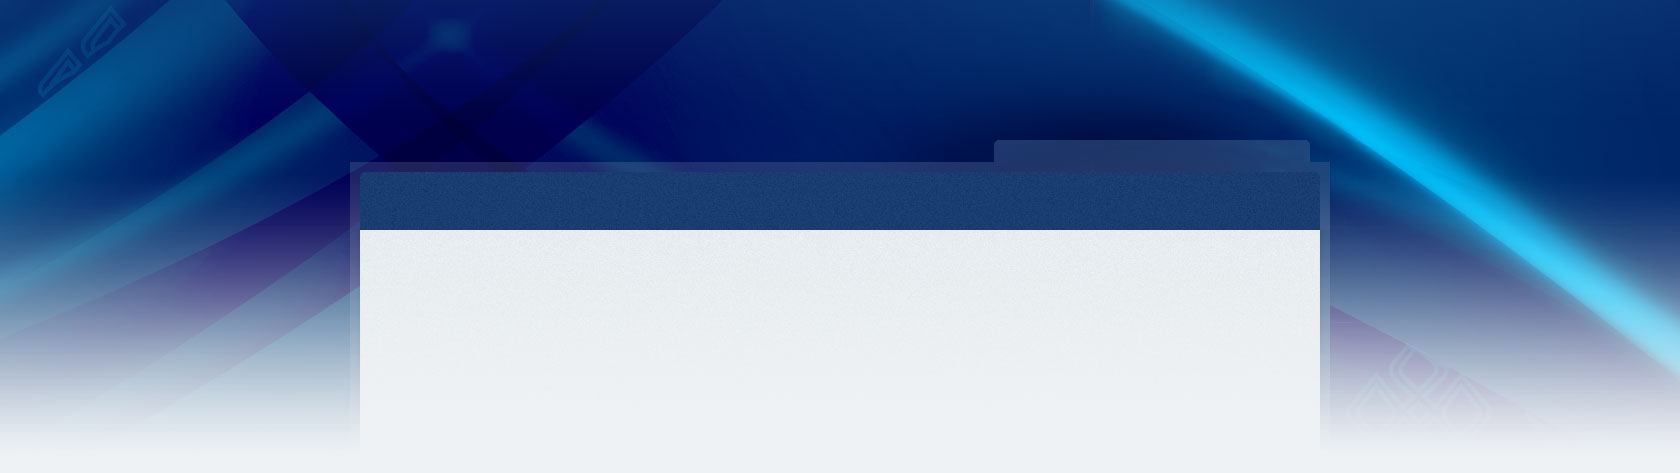
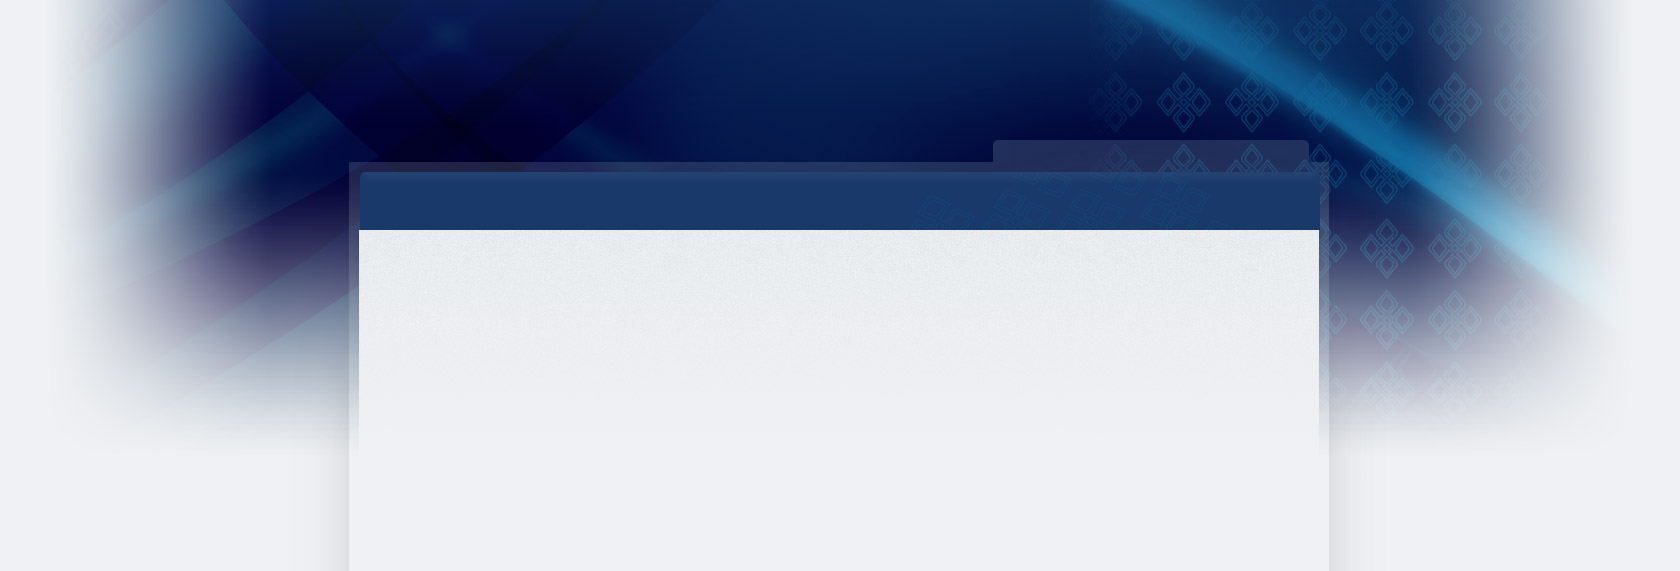
Update to new design, working commit

diff --git a/sites/all/themes/u21dk2011/styles/layout.css b/sites/all/themes/u21dk2011/styles/layout.css
@@ -1,8 +1,25 @@
 /* ----- / layouts ------ */
 
+body {
+  background: #eff1f3 url(../images/back-content.png) center top repeat-y;
+} 
+
 #wrapper {
-  background: #eff2f4 url(../images/body-back-1680.jpg) center top no-repeat;
+  background: transparent url(../images/body-back-1680.jpg) center top no-repeat;
   overflow: hidden;
+}
+
+#secondary-content {
+  background: #e9ebec url(../images/back-secondary-content.png) center top repeat-y;
+  background-image: url(../images/back-secondary-content.png), url(../images/back-secondary-content-pattern.jpg);
+  background-repeat: repeat-y, no-repeat;
+  background-position: center top;
+  overflow: hidden;
+  padding-top: 30px;
+}
+
+.clear {
+  clear: both;
 }
 
 /* ======================================== */
@@ -196,6 +213,10 @@
 
 #content {
   margin-top: 20px;
+}
+
+#main-content {
+  padding-bottom: 30px;
 }
 
 #content>.tabs {
@@ -536,6 +557,38 @@
   margin-top: 19px;
 }
 
+/* ======================================== */
+/*  NEWS LIST                               */
+/* ======================================== */
+
+#news-list .views-list>li {
+  padding: 8px 8px 8px 158px;
+}
+
+#news-list li h2,
+#news-list li h2 a {
+}
+
+#news-list .post-date {
+  margin-left: -150px;
+  float: left;
+}
+
+#news-list .region-link {
+  background: #aaa;
+  border-radius: 6px;
+  -moz-border-radius: 6px;
+  -webkit-border-radius: 6px;
+  -o-border-radius: 6px;
+  padding: 0 8px;
+  margin: 4px 0;
+  }
+
+#news-list .region-link a {
+
+}
+
+
 
 /* =============================================
 
@@ -544,30 +597,7 @@
 
 
 
-.clear {
-  clear: both;
-}
 
-
-/* ------ / News ------ */
-.post-date {
-  float: left;
-  padding-right: 3px;
-  margin-right: 3px;
-  border-right: 1px solid #ccc;
-}
-
-.region-link {
-  float: left;
-  padding: 0px 3px;
-  margin-right: 3px;
-  background: blue;
-}
-
-.region-link a:link,
-.region-link a:visited {
-    color: #fff;
-}
 
 /* ----- / Events ------ */
 .views-list .location {

diff --git a/sites/all/themes/u21dk2011/styles/typography.css b/sites/all/themes/u21dk2011/styles/typography.css
@@ -39,6 +39,7 @@ h1 {
 
 h2 {
   font-size: 18px;
+  line-height: 20px;
   margin: 1.5em 0 0.2em;
   font-weight: bold;
   color: #222;
@@ -70,8 +71,6 @@ quote {
 strong, bold {
   font-weight: bold;
 }
-
-
 
 /* ------ / Link typography ------ */
 
@@ -116,6 +115,19 @@ li a.active:hover {
 .field-content-value a[href^='http://dev.u21.etek.dk'] {
   padding-left: 0;
   background: transparent;
+}
+
+.region-link a:link,
+.region-link a:visited {
+  color: #fff;
+  border: none;
+  font-size: 11px;
+  line-height: 12px;
+}
+
+.region-link a:hover,
+.region-link a:active {
+  text-decoration: underline;
 }
 
 /* ----- / Submenu ----- */

diff --git a/sites/all/themes/u21dk2011/templates/pages/page.tpl.php b/sites/all/themes/u21dk2011/templates/pages/page.tpl.php
@@ -60,58 +60,63 @@
       </div>
     </div><!-- /content -->
 
-    <div id="secondary-content" class="container-12 clear">
-      <?php if ($region_middle): ?>
-        <div id="region-middle" class="region grid-12">
-        <?php print $region_middle; ?>
-        </div>
-      <?php endif; ?>
-      <?php if ($region_middle_left): ?>
-        <div id="region-middle-left" class="region grid-4">
-        <?php print $region_middle_left; ?>
-        </div>
-      <?php endif; ?>
-      <?php if ($region_middle_center): ?>
-        <div id="region-middle-center" class="region grid-4">
-        <?php print $region_middle_center; ?>
-        </div>
-      <?php endif; ?>
-      <?php if ($region_middle_right): ?>
-        <div id="region-middle-right" class="region grid-4">
-        <?php print $region_middle_right; ?>
-        </div>
-      <?php endif; ?>
-      <?php if ($region_bottom): ?>
-        <div id="region-bottom" class="region grid-12">
-        <?php print $region_bottom; ?>
-        </div>
-      <?php endif; ?>
-    
+    <div id="secondary-content" class="clear">
+      <div id="secondary-content-inner" class="container-12">
+        <?php if ($region_middle): ?>
+          <div id="region-middle" class="region grid-12">
+          <?php print $region_middle; ?>
+          </div>
+        <?php endif; ?>
+        <?php if ($region_middle_left): ?>
+          <div id="region-middle-left" class="region grid-4">
+          <?php print $region_middle_left; ?>
+          </div>
+        <?php endif; ?>
+        <?php if ($region_middle_center): ?>
+          <div id="region-middle-center" class="region grid-4">
+          <?php print $region_middle_center; ?>
+          </div>
+        <?php endif; ?>
+        <?php if ($region_middle_right): ?>
+          <div id="region-middle-right" class="region grid-4">
+          <?php print $region_middle_right; ?>
+          </div>
+        <?php endif; ?>
+        <?php if ($region_bottom): ?>
+          <div id="region-bottom" class="region grid-12">
+          <?php print $region_bottom; ?>
+          </div>
+        <?php endif; ?>
+      </div>
     </div><!-- /Secondary content -->
   
     <?php if ($footer_1 || $footer_2 || $footer_3 || $footer_4): ?>
-    <ul id="footer" class="container-12 clear">
-        <?php if ($footer_1): ?>        
-        <li class="region grid-3">
-          <?php print $footer_1; ?>
-        </li>
-        <?php endif; ?>
-        <?php if ($footer_2): ?>        
-        <li class="region grid-3">
-          <?php print $footer_2; ?>
-        </li>
-        <?php endif; ?>
-        <?php if ($footer_3): ?>        
-        <li class="region grid-3">
-          <?php print $footer_3; ?>
-        </li>
-        <?php endif; ?>
-        <?php if ($footer_4): ?>        
-        <li class="region grid-3">
-          <?php print $footer_4; ?>
-        </li>
-        <?php endif; ?>
-    </ul><!-- /footer -->
+    <div id="footer" class="clear">
+      <div id="footer-inner">
+        <ul id="footer-regions" class="container-12 clear">
+            <?php if ($footer_1): ?>        
+            <li class="region grid-3">
+              <?php print $footer_1; ?>
+            </li>
+            <?php endif; ?>
+            <?php if ($footer_2): ?>        
+            <li class="region grid-3">
+              <?php print $footer_2; ?>
+            </li>
+            <?php endif; ?>
+            <?php if ($footer_3): ?>        
+            <li class="region grid-3">
+              <?php print $footer_3; ?>
+            </li>
+            <?php endif; ?>
+            <?php if ($footer_4): ?>        
+            <li class="region grid-3">
+              <?php print $footer_4; ?>
+            </li>
+            <?php endif; ?>
+        </ul>
+      </div>
+    </div><!-- /footer -->
     <?php endif; ?>
 
   </div><!-- /wrapper -->
